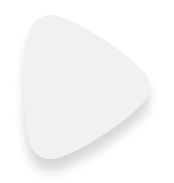
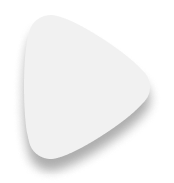
update

Changed region(s): [[0.1437, 0.5191, 0.8621, 0.929]]

diff --git a/src/page/home/components/Player.tsx b/src/page/home/components/Player.tsx
@@ -238,9 +238,10 @@ const Player = ({
       url: src,
       volume: 0.5,
       muted: muteRef.current,
-      autoplay: false,
+      autoplay: isActive,
       fullscreenWeb: true,
       poster: decryptedPhoto,
+      loop: true,
       moreVideoAttr: {
         playsInline: true,
         preload: "auto" as const,
@@ -851,6 +852,26 @@ const Player = ({
       
       // Stop position saving
       stopPositionSaving();
+      
+      // Reset watched time for analytics
+      if (watchTimer) {
+        clearInterval(watchTimer);
+        watchTimer = null;
+      }
+      watchedTimeRef.current = 0;
+      
+      // The video will automatically loop due to the loop option
+      console.log('Video ended, looping will begin automatically');
+      
+      // Start a new timer for the looped playback if needed
+      watchTimer = setInterval(() => {
+        watchedTimeRef.current += 1; // Increment watched time every second
+        
+        // Trigger API call after 5 seconds of playback on loop
+        if (watchedTimeRef.current >= 5 && !apiCalledRef.current && !type) {
+          handleWatchHistory();
+        }
+      }, 1000);
     });
   };
 
@@ -873,14 +894,6 @@ const Player = ({
       clearInterval(watchTimer);
       watchTimer = null;
     }
-  });
-
-  artPlayerInstanceRef.current?.on("video:ended", () => {
-    if (watchTimer) {
-      clearInterval(watchTimer);
-      watchTimer = null;
-    }
-    watchedTimeRef.current = 0; // Reset watched time
   });
 
   // Handle active state changes

diff --git a/src/page/search/page/Results.tsx b/src/page/search/page/Results.tsx
@@ -15,6 +15,7 @@ import { Avatar, AvatarFallback, AvatarImage } from "@/components/ui/avatar";
 import VideoFeed from "@/page/home/components/VideoFeed";
 import empty from "../../home/empty.png";
 import ImageWithPlaceholder from "@/page/explore/comp/imgPlaceHolder";
+import { paths } from "@/routes/paths";
 
 // import ImageWithPlaceholder from "../comp/imgPlaceholder";
 import he from "he";
@@ -251,6 +252,11 @@ const Results: React.FC<ResultsProps> = ({}) => {
     });
   }, [movies]);
 
+  const navigateToUserProfile = (userId: string, event: React.MouseEvent) => {
+    event.stopPropagation(); // Prevent triggering the parent click event
+    navigate(paths.getUserProfileId(userId));
+  };
+
   if (showVideoFeed && selectedMovieId) {
     return (
       <VideoFeed
@@ -405,7 +411,10 @@ const Results: React.FC<ResultsProps> = ({}) => {
                               alt=""
                             />
                           )}
-                          <h1 className=" text-white text-[12px] font-[400] leading-[20px]">
+                          <h1 
+                            className=" text-white text-[12px] font-[400] leading-[20px] cursor-pointer hover:text-purple-300"
+                            onClick={(e) => navigateToUserProfile(card.user.id, e)}
+                          >
                             {card.user.name}
                             {/* {card?.files[0]?.width} & {card?.files[0]?.height} {} */}
                           </h1>

diff --git a/src/page/explore/comp/Recommand.tsx b/src/page/explore/comp/Recommand.tsx
@@ -89,6 +89,11 @@ const Recommand: React.FC<RecommandProps> = ({ title, list_id }) => {
     return num;
   };
 
+  const navigateToUserProfile = (userId: string, event: React.MouseEvent) => {
+    event.stopPropagation(); // Prevent triggering the parent click event
+    navigate(paths.getUserProfileId(userId));
+  };
+
   // console.log(list);
   return (
     <div className=" pb-[20px] px-[10px]">
@@ -210,7 +215,10 @@ const Recommand: React.FC<RecommandProps> = ({ title, list_id }) => {
                                 alt=""
                               />
                             )}
-                            <h1 className=" text-[#888] text-[12px] font-[400] leading-[20px]">
+                            <h1 
+                              className=" text-[#888] text-[12px] font-[400] leading-[20px] cursor-pointer hover:text-white"
+                              onClick={(e) => navigateToUserProfile(card.user.id, e)}
+                            >
                               {card.user.name}
                               {/* {card?.files[0]?.width} & {card?.files[0]?.height} {} */}
                             </h1>

diff --git a/src/page/explore/comp/Latest.tsx b/src/page/explore/comp/Latest.tsx
@@ -73,6 +73,12 @@ const Latest: React.FC<LatestPorp> = ({ list_id }) => {
     dispatch(setDetails(file));
     navigate("/vod_details");
   };
+
+  const navigateToUserProfile = (userId: string, event: React.MouseEvent) => {
+    event.stopPropagation(); // Prevent triggering the parent click event
+    navigate(paths.getUserProfileId(userId));
+  };
+  
   // console.log(waterfall);
   return (
     <>
@@ -132,7 +138,10 @@ const Latest: React.FC<LatestPorp> = ({ list_id }) => {
                           alt=""
                         />
                       )}
-                      <h1 className=" text-[#888] text-[12px] font-[500]">
+                      <h1 
+                        className=" text-[#888] text-[12px] font-[500] cursor-pointer hover:text-white"
+                        onClick={(e) => navigateToUserProfile(card.user.id, e)}
+                      >
                         {card.user.name}
                       </h1>
                     </div>

diff --git a/src/page/explore/comp/More.tsx b/src/page/explore/comp/More.tsx
@@ -123,6 +123,11 @@ const More: React.FC<MoreProps> = () => {
     return 200;
   };
 
+  const navigateToUserProfile = (userId: string, event: React.MouseEvent) => {
+    event.stopPropagation(); // Prevent triggering the parent click event
+    navigate(paths.getUserProfileId(userId));
+  };
+
   // console.log(data?.data);
   // console.log(more_tab);
 
@@ -260,7 +265,10 @@ const More: React.FC<MoreProps> = () => {
                             alt=""
                           />
                         )}
-                        <h1 className=" text-[#888] text-[12px] font-[500]">
+                        <h1 
+                          className=" text-[#888] text-[12px] font-[500] cursor-pointer hover:text-white"
+                          onClick={(e) => navigateToUserProfile(item.user.id, e)}
+                        >
                           {item.user.name}
                         </h1>
                       </div>
